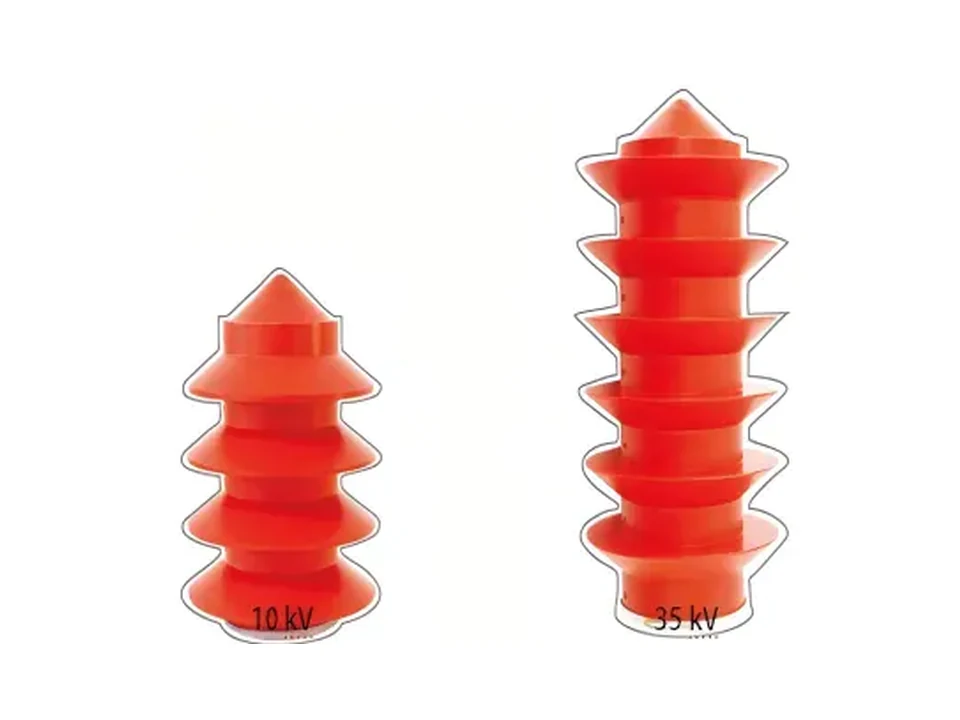
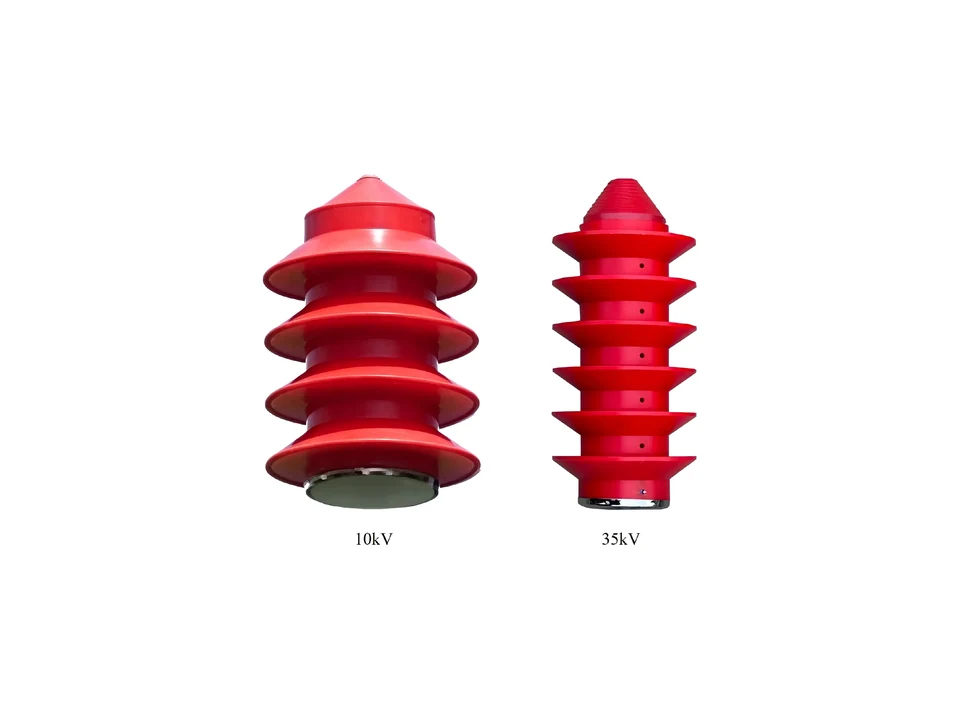
修复产品列表缩略图显示

Changed region(s): [[0.5625, 0.1222, 0.8438, 0.8861], [0.1875, 0.2444, 0.5, 0.9167]]

diff --git a/server/routes/products.js b/server/routes/products.js
@@ -7,6 +7,7 @@ const { VALID_GROUPS, getCategoryMapping } = require('../lib/category-helper');
 const router = express.Router();
 const PROJECT_ROOT = path.resolve(__dirname, '..', '..');
 const CARD_IMAGE_DIR = 'assets/optimized/product-cards';
+const ONE_SECOND_MS = 1000;
 
 function parseJsonArray(value) {
     try {
@@ -35,11 +36,35 @@ function cardImageSlug(row) {
         .replace(/^-|-$/g, '');
 }
 
-function resolveProductCardImage(row) {
+function publicPathToFile(publicPath) {
+    const normalized = String(publicPath || '').trim().replace(/\\/g, '/').replace(/^\/+/, '');
+    if (!normalized || normalized.indexOf('..') !== -1 || /^(?:https?:)?\/\//i.test(normalized)) return '';
+    return path.join(PROJECT_ROOT, ...normalized.split('/'));
+}
+
+function updatedAtMs(value) {
+    const number = Number(value || 0);
+    return Number.isFinite(number) ? number : 0;
+}
+
+function resolveProductCardImage(row, coverPath) {
     const slug = cardImageSlug(row);
     if (!slug) return '';
     const publicPath = CARD_IMAGE_DIR + '/' + slug + '.webp';
-    return fs.existsSync(path.join(PROJECT_ROOT, publicPath)) ? publicPath : '';
+    const cardFile = publicPathToFile(publicPath);
+    if (!cardFile || !fs.existsSync(cardFile)) return '';
+
+    const cardStat = fs.statSync(cardFile);
+    const sourceFile = publicPathToFile(coverPath);
+    if (sourceFile && fs.existsSync(sourceFile)) {
+        const sourceStat = fs.statSync(sourceFile);
+        if (cardStat.mtimeMs + ONE_SECOND_MS < sourceStat.mtimeMs) return '';
+    } else {
+        const rowUpdatedAt = updatedAtMs(row.updated_at);
+        if (rowUpdatedAt && cardStat.mtimeMs + ONE_SECOND_MS < rowUpdatedAt) return '';
+    }
+
+    return publicPath + '?v=' + Math.round(cardStat.mtimeMs);
 }
 
 function mapSqliteProduct(row, specsByProduct, coverByProduct) {
@@ -63,7 +88,7 @@ function mapSqliteProduct(row, specsByProduct, coverByProduct) {
         name: row.name_en,
         nameAr: row.name_ar || '',
         image: coverByProduct[row.id] || '',
-        cardImage: resolveProductCardImage(row),
+        cardImage: resolveProductCardImage(row, coverByProduct[row.id] || ''),
         category: row.category_slug || '',
         categoryLabel: row.category_label || '',
         categoryLabelAr: row.category_label_ar || '',

diff --git a/scripts/generate-product-card-thumbnails.py b/scripts/generate-product-card-thumbnails.py
@@ -22,6 +22,15 @@ WHITE_THRESHOLD = 246
 ALPHA_THRESHOLD = 8
 BBOX_EXPAND_RATIO = 0.035
 WEBP_QUALITY = 88
+PRODUCT_SCALE_OVERRIDES = {
+    "gcs": 0.78,
+    "lxac-14kw": 0.74,
+    "product-1781800386893": 0.76,
+    "grid-connected-pv-box": 0.76,
+    "pv-combiner-box": 0.76,
+    "grid-connected-pv-cabinet": 0.76,
+    "segmented-arc-quenching-surge-arrester": 0.70,
+}
 
 
 def query_products(db_path: Path) -> Iterable[sqlite3.Row]:
@@ -62,6 +71,10 @@ def slugify(value: str, fallback: str) -> str:
 
 def output_name(row: sqlite3.Row) -> str:
     return slugify(row["slug"] or row["legacy_id"] or "", f"product-{row['id']}") + ".webp"
+
+
+def product_key(row: sqlite3.Row) -> str:
+    return slugify(row["slug"] or row["legacy_id"] or "", f"product-{row['id']}")
 
 
 def is_background_pixel(r: int, g: int, b: int, a: int) -> bool:
@@ -144,6 +157,12 @@ def fit_size(source_size: Tuple[int, int], limits: Tuple[int, int]) -> Tuple[int
     return max(1, round(source_width * scale)), max(1, round(source_height * scale))
 
 
+def scaled_limits(row: sqlite3.Row, crop_size: Tuple[int, int]) -> Tuple[int, int]:
+    max_width, max_height = target_limits(crop_size)
+    scale = PRODUCT_SCALE_OVERRIDES.get(product_key(row), 1)
+    return max(1, round(max_width * scale)), max(1, round(max_height * scale))
+
+
 def flatten_to_white(image: Image.Image) -> Image.Image:
     rgba = image.convert("RGBA")
     white = Image.new("RGBA", rgba.size, (255, 255, 255, 255))
@@ -191,7 +210,7 @@ def generate_thumbnail(row: sqlite3.Row, output_dir: Path) -> Dict[str, Any]:
 
         crop = image.crop(crop_box)
         flattened = flatten_to_white(crop)
-        fitted_size = fit_size(flattened.size, target_limits(flattened.size))
+        fitted_size = fit_size(flattened.size, scaled_limits(row, flattened.size))
         resized = flattened.resize(fitted_size, Image.Resampling.LANCZOS)
 
         canvas = Image.new("RGB", CANVAS_SIZE, (255, 255, 255))
